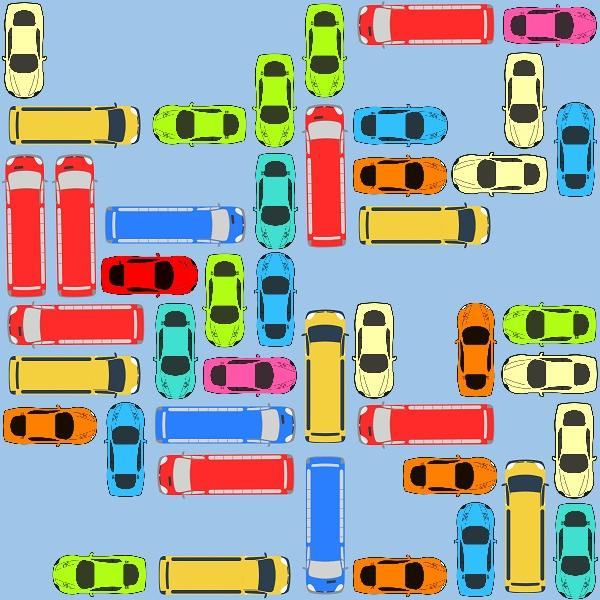
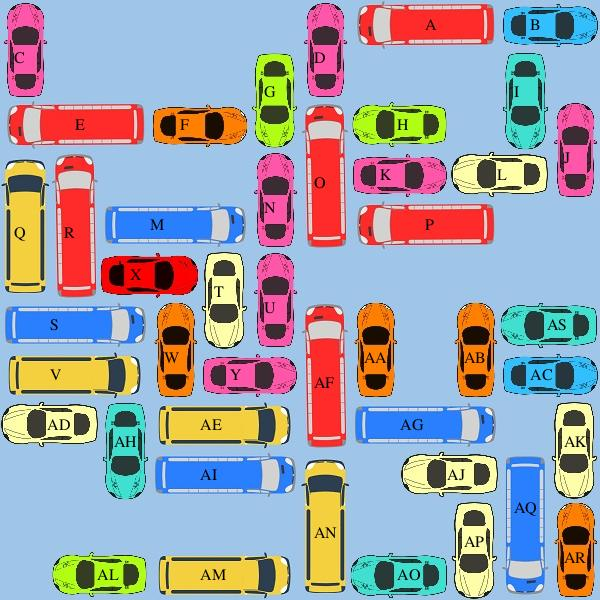
Style50 on .py

diff --git a/Scripts/game.py b/Scripts/game.py
@@ -199,12 +199,13 @@ class Game:
 
         # Print car names (letters) on cars
         game_image_draw = ImageDraw.Draw(game_image)
-        font = ImageFont.truetype('Font/FreeSerif.ttf', size = 16)
+        font = ImageFont.truetype('Font/FreeSerif.ttf', size=16)
         for car_name, car in zip(self.cars, self.cars.values()):
             text_offset_x, text_offset_y = car.get_text_offset()
-            game_image_draw.text(((car.get_col() - 1) * pixel_to_square + text_offset_x,
-                             (car.get_row() - 1) * pixel_to_square + text_offset_y),
-                             car.car_name, fill = (0, 0, 0), font = font)
+            game_image_draw.text(((car.get_col() - 1) * pixel_to_square +
+                                 text_offset_x,
+                                 (car.get_row() - 1) * pixel_to_square + text_offset_y),
+                                 car.car_name, fill=(0, 0, 0), font=font)
 
         # Save image
         game_image.save('BoardImages/game.jpeg')
@@ -214,7 +215,6 @@ class Game:
             os.system('tycat BoardImages/game.jpeg')
         else:
             os.system('$HOME/.iterm2/imgcat BoardImages/game.jpeg')
-
 
     def show_image_imgcat(self) -> None:
         pixel_to_square = 50
@@ -251,7 +251,7 @@ class Game:
         return self.imgcat_print
 
     def output_to_csv(self) -> None:
-        with open('output.csv', 'w', encoding = 'UTF8', newline = '') as f:
+        with open('output.csv', 'w', encoding='UTF8', newline='') as f:
             csv_writer = csv.writer(f)
             
             # Header

diff --git a/Scripts/board_visual.py b/Scripts/board_visual.py
@@ -15,6 +15,7 @@ def generate_random_color():
     color = ''.join(random.choices(string.hexdigits[:-6], k=6))
     return '#' + color
 
+
 def colorize_string_list(string_list):
     """
     Color each character in the string list with a random color.
@@ -26,6 +27,7 @@ def colorize_string_list(string_list):
     color_map['X'] = '#FF0000'
     colorized_string_list = [color_map[char] for char in string_list]
     return colorized_string_list
+
 
 def create_color_matrix(data):
     """

diff --git a/Scripts/solver.py b/Scripts/solver.py
@@ -47,7 +47,7 @@ def main() -> None:
         if game.is_won():
             steps_list.append(game.get_step_count())
             if game.get_step_count() == min(steps_list):
-            	game.output_to_csv()
+                game.output_to_csv()
         
         # Print step completed
         print(f'Completed step {i + 1}, game was {"" if game.is_won() else "NOT "}solved')
